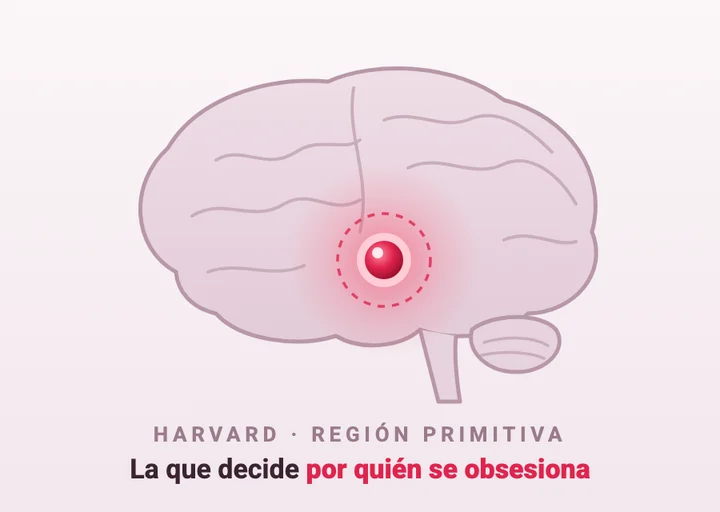
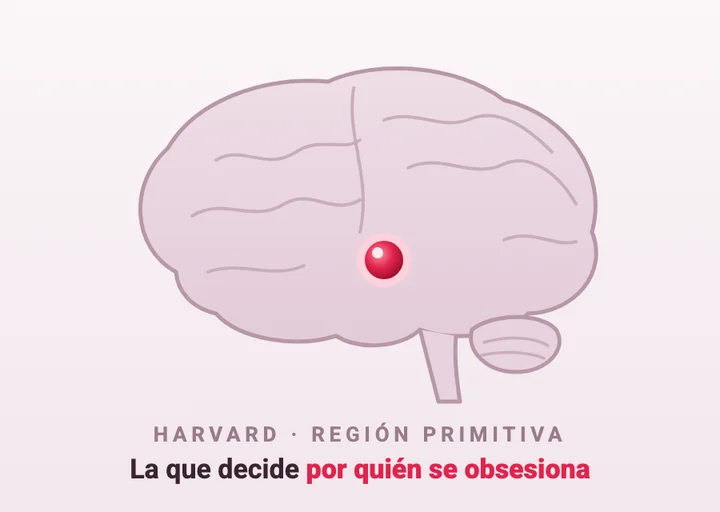
PRÉVIA landing: pontilhado girando + brilho pulsando sobre a região do cérebro

Changed region(s): [[0.4583, 0.375, 0.6111, 0.625]]

diff --git a/src/components/Landing.tsx b/src/components/Landing.tsx
@@ -74,15 +74,20 @@ export default function Landing({ onNavigate }: LandingProps) {
                 </h1>
 
                 <button type="button" className="lp-news-btn" onClick={handleNewsClick} aria-label="Empezar: descubre cómo volver a encender esa región">
-                    <img
-                        src={BRAIN_CARD_URL}
-                        alt="Cerebro con la región primitiva encendida: la que decide por quién se obsesiona"
-                        className="lp-news"
-                        width={720}
-                        height={512}
-                        {...{ fetchpriority: 'high' }}
-                        decoding="async"
-                    />
+                    <span className="lp-brain-wrap">
+                        <img
+                            src={BRAIN_CARD_URL}
+                            alt="Cerebro con la región primitiva encendida: la que decide por quién se obsesiona"
+                            className="lp-news"
+                            width={720}
+                            height={512}
+                            {...{ fetchpriority: 'high' }}
+                            decoding="async"
+                        />
+                        {/* brilho pulsando + pontilhado girando sobre o ponto vermelho (centro em 53,33% / 50,78% da imagem) */}
+                        <span className="lp-brain-glow" aria-hidden="true"></span>
+                        <span className="lp-brain-ring" aria-hidden="true"></span>
+                    </span>
                 </button>
 
                 {/* 4. QUEBRA DE OBJEÇÃO */}
@@ -120,6 +125,14 @@ export default function Landing({ onNavigate }: LandingProps) {
 
             {/* Classes com prefixo lp- para não colidir com o CSS global (ex.: .progress-bar do chat) */}
             <style>{`
+                .lp-brain-wrap { position: relative; display: block; }
+                .lp-brain-glow, .lp-brain-ring { position: absolute; left: 53.33%; top: 50.78%; border-radius: 50%; pointer-events: none; transform: translate(-50%, -50%); }
+                .lp-brain-glow { width: 30%; aspect-ratio: 1; background: radial-gradient(circle, rgba(255,59,92,0.55) 0%, rgba(255,59,92,0.18) 45%, rgba(255,59,92,0) 70%); animation: lp-brain-pulse 1.6s ease-in-out infinite; }
+                .lp-brain-ring { width: 12.9%; aspect-ratio: 1; border: 2px dashed #e0244d; animation: lp-brain-spin 6s linear infinite; }
+                @keyframes lp-brain-pulse { 0%, 100% { transform: translate(-50%, -50%) scale(0.85); opacity: 0.7; } 50% { transform: translate(-50%, -50%) scale(1.15); opacity: 1; } }
+                @keyframes lp-brain-spin { from { transform: translate(-50%, -50%) rotate(0deg); } to { transform: translate(-50%, -50%) rotate(360deg); } }
+                @media (prefers-reduced-motion: reduce) { .lp-brain-glow, .lp-brain-ring { animation: none; } }
+
                 .lp-container {
                     min-height: 100vh;
                     background: #000;
